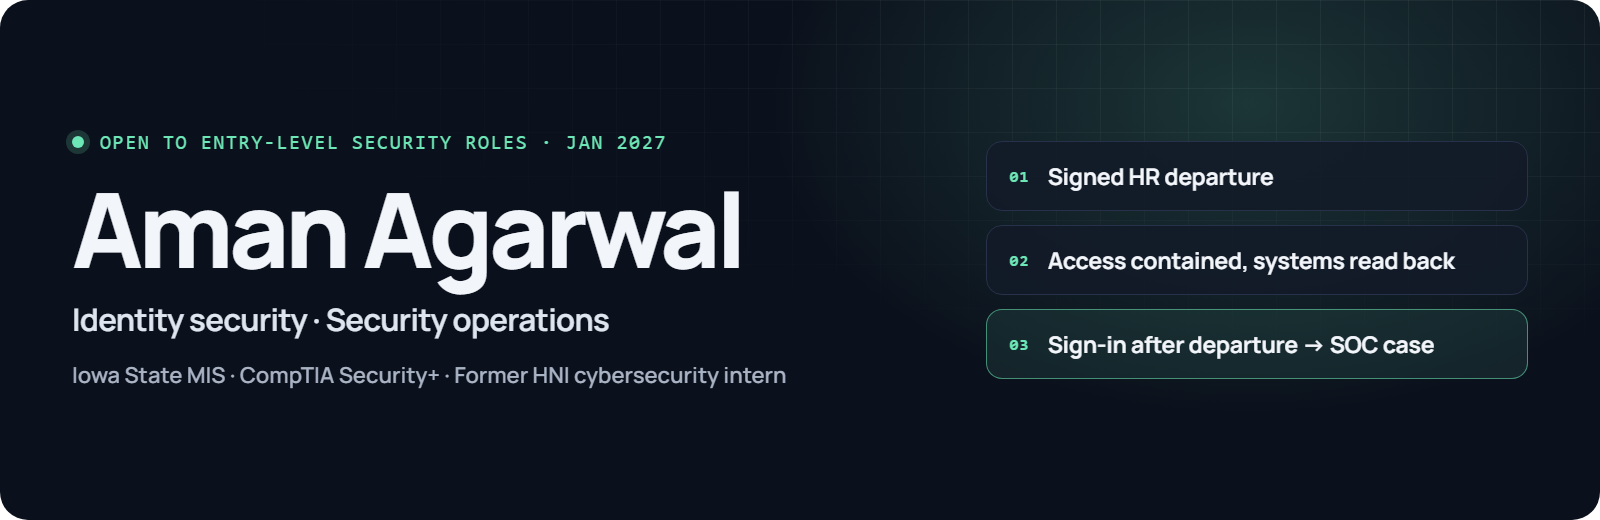
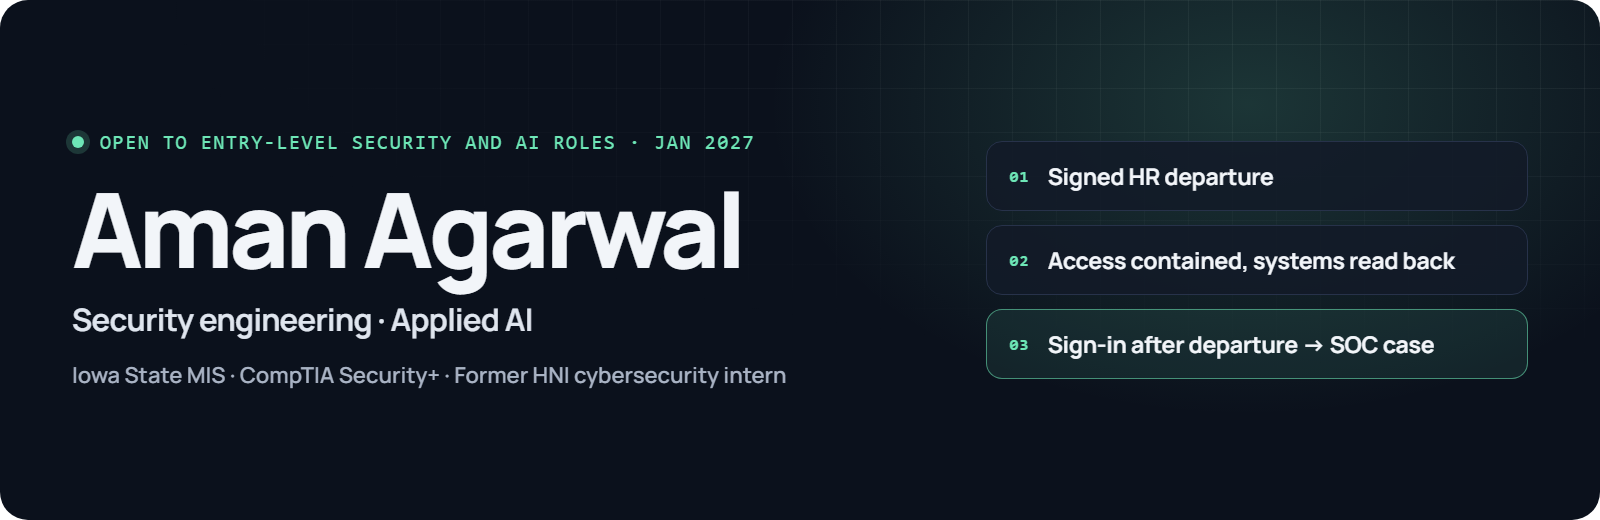
Give applied AI equal footing on the profile

Changed region(s): [[0.0312, 0.5846, 0.375, 0.6462], [0.2812, 0.2462, 0.4688, 0.3077]]

diff --git a/README.md b/README.md
@@ -1,6 +1,6 @@
-<a href="https://aman-agarwal6.github.io/"><img src="assets/banner.png" alt="Aman Agarwal: identity security and security operations. Iowa State MIS, CompTIA Security+, former HNI cybersecurity intern. Open to entry-level security roles from January 2027." width="100%"></a>
+<a href="https://aman-agarwal6.github.io/"><img src="assets/banner.png" alt="Aman Agarwal: security engineering and applied AI. Iowa State MIS, CompTIA Security+, former HNI cybersecurity intern. Open to entry-level security and AI roles from January 2027." width="100%"></a>
 
-I build identity and detection controls, test them against real systems, and publish what failed alongside what passed. MIS senior at Iowa State with a Cybersecurity Engineering minor, graduating December 2026; CompTIA Security+; former cybersecurity intern at HNI. **Open to entry-level roles in identity and access management, security operations and security engineering from January 2027.**
+I build security controls and AI-powered tools, test them against real systems, and publish what failed alongside what passed. MIS senior at Iowa State with a Cybersecurity Engineering minor, graduating December 2026; CompTIA Security+; former cybersecurity intern at HNI. **Open to entry-level roles in security engineering, security operations or identity and access management, and AI engineering or automation roles, from January 2027.**
 
 **[Portfolio](https://aman-agarwal6.github.io/)** · [Recruiter summary](https://aman-agarwal6.github.io/overview.html) · [LinkedIn](https://www.linkedin.com/in/aman-agarwal6/) · [Email](mailto:aagarwalcollege@gmail.com)
 
@@ -47,9 +47,9 @@ The two work as a pair: AccessOps sends a signed event for each offboarding step
 
 | Project | What it is | Highlight |
 | --- | --- | --- |
-| [BetTail](https://aman-agarwal6.github.io/projects/bettail.html) | Live web app where private groups share sports picks and track results | Row-level security on every exposed table, no admin database key; 6 fixes from my security review |
-| [Netted](https://aman-agarwal6.github.io/projects/netted.html) | Personal-finance app for trade profit, shared funds and budgeting | MFA enforced in the database; security assessment and 7-item risk register |
-| [Downfield](https://aman-agarwal6.github.io/projects/downfield.html) | Local AI research agent that writes structured NFL reports | Two allowed tools, no app secrets, code checks on every report |
+| [BetTail](https://aman-agarwal6.github.io/projects/bettail.html) | Live web app where private groups share sports picks and track results | Profit, ROI and leaderboards calculated in the database; row-level security on every exposed table; 6 fixes from my security review |
+| [Netted](https://aman-agarwal6.github.io/projects/netted.html) | Personal-finance app for trade profit, shared funds and budgeting | Accounting rules written before any code; MFA enforced in the database; 7-item risk register |
+| [Downfield](https://aman-agarwal6.github.io/projects/downfield.html) | Local AI research agent that writes structured NFL reports for BetTail | Every report checked by code; versioned forecasts graded after each game; two allowed tools, no app secrets |
 
 BetTail, Netted and Downfield are private; their case studies link [selected code and tests](https://github.com/aman-agarwal6/aman-agarwal6.github.io/blob/main/docs/PROJECTS.md).
 
@@ -67,13 +67,13 @@ Automated triage for 3 identity-alert types in **Cortex XSIAM** (30+ alerts hand
 ![Cortex XSIAM](https://img.shields.io/badge/Cortex%20XSIAM-161D2A?style=flat-square&logo=paloaltonetworks&logoColor=F04E23) ![Wazuh SIEM](https://img.shields.io/badge/Wazuh%20SIEM-161D2A?style=flat-square) ![Sigma rules](https://img.shields.io/badge/Sigma%20rules-161D2A?style=flat-square) ![Splunk SPL](https://img.shields.io/badge/Splunk%20SPL-161D2A?style=flat-square&logo=splunk&logoColor=white) ![KQL](https://img.shields.io/badge/KQL-161D2A?style=flat-square) ![Shuffle SOAR](https://img.shields.io/badge/Shuffle%20SOAR-161D2A?style=flat-square) ![Proofpoint TRAP and DLP](https://img.shields.io/badge/Proofpoint%20TRAP%20and%20DLP-161D2A?style=flat-square) ![VirusTotal](https://img.shields.io/badge/VirusTotal-161D2A?style=flat-square&logo=virustotal&logoColor=394EFF) ![OWASP ZAP](https://img.shields.io/badge/OWASP%20ZAP-161D2A?style=flat-square&logo=zap&logoColor=00549E)
 
 **Cloud security**  
-![Microsoft Azure](https://img.shields.io/badge/Microsoft%20Azure-161D2A?style=flat-square) ![Wiz Security Graph](https://img.shields.io/badge/Wiz%20Security%20Graph-161D2A?style=flat-square) ![Rego policy controls](https://img.shields.io/badge/Rego%20policy%20controls-161D2A?style=flat-square) ![REST API integrations](https://img.shields.io/badge/REST%20API%20integrations-161D2A?style=flat-square)
+![Microsoft Azure](https://img.shields.io/badge/Microsoft%20Azure-161D2A?style=flat-square) ![Wiz Security Graph](https://img.shields.io/badge/Wiz%20Security%20Graph-161D2A?style=flat-square) ![Rego cloud controls](https://img.shields.io/badge/Rego%20cloud%20controls-161D2A?style=flat-square)
 
 **Engineering**  
 ![Python](https://img.shields.io/badge/Python-161D2A?style=flat-square&logo=python&logoColor=3776AB) ![Django](https://img.shields.io/badge/Django-161D2A?style=flat-square&logo=django&logoColor=white) ![PostgreSQL](https://img.shields.io/badge/PostgreSQL-161D2A?style=flat-square&logo=postgresql&logoColor=4169E1) ![TypeScript](https://img.shields.io/badge/TypeScript-161D2A?style=flat-square&logo=typescript&logoColor=3178C6) ![React](https://img.shields.io/badge/React-161D2A?style=flat-square&logo=react&logoColor=61DAFB) ![Next.js](https://img.shields.io/badge/Next.js-161D2A?style=flat-square&logo=nextdotjs&logoColor=white) ![Supabase](https://img.shields.io/badge/Supabase-161D2A?style=flat-square&logo=supabase&logoColor=3FCF8E) ![Docker](https://img.shields.io/badge/Docker-161D2A?style=flat-square&logo=docker&logoColor=2496ED)
 
-**Secure delivery**  
-![GitHub Actions](https://img.shields.io/badge/GitHub%20Actions-161D2A?style=flat-square&logo=githubactions&logoColor=2088FF) ![CodeQL and dependency review](https://img.shields.io/badge/CodeQL%20and%20dependency%20review-161D2A?style=flat-square&logo=github&logoColor=white) ![Signed releases with SBOM](https://img.shields.io/badge/Signed%20releases%20with%20SBOM-161D2A?style=flat-square) ![Row-level security](https://img.shields.io/badge/Row--level%20security-161D2A?style=flat-square&logo=postgresql&logoColor=4169E1) ![Regression tests](https://img.shields.io/badge/Regression%20tests-161D2A?style=flat-square)
+**Delivery**  
+![GitHub Actions](https://img.shields.io/badge/GitHub%20Actions-161D2A?style=flat-square&logo=githubactions&logoColor=2088FF) ![CodeQL and dependency review](https://img.shields.io/badge/CodeQL%20and%20dependency%20review-161D2A?style=flat-square&logo=github&logoColor=white) ![Signed releases with SBOM](https://img.shields.io/badge/Signed%20releases%20with%20SBOM-161D2A?style=flat-square)
 
-**AI security**  
-![LLM agents (Claude)](https://img.shields.io/badge/LLM%20agents%20%28Claude%29-161D2A?style=flat-square&logo=claude&logoColor=D97757) ![Tool and environment allowlists](https://img.shields.io/badge/Tool%20and%20environment%20allowlists-161D2A?style=flat-square) ![Untrusted-input handling](https://img.shields.io/badge/Untrusted--input%20handling-161D2A?style=flat-square) ![JSON Schema validation](https://img.shields.io/badge/JSON%20Schema%20validation-161D2A?style=flat-square&logo=json&logoColor=white) ![Source provenance](https://img.shields.io/badge/Source%20provenance-161D2A?style=flat-square)
+**Applied AI**  
+![LLM agents (Claude)](https://img.shields.io/badge/LLM%20agents%20%28Claude%29-161D2A?style=flat-square&logo=claude&logoColor=D97757) ![Structured output with JSON Schema](https://img.shields.io/badge/Structured%20output%20with%20JSON%20Schema-161D2A?style=flat-square&logo=json&logoColor=white) ![Tool and environment allowlists](https://img.shields.io/badge/Tool%20and%20environment%20allowlists-161D2A?style=flat-square) ![Source provenance](https://img.shields.io/badge/Source%20provenance-161D2A?style=flat-square)
